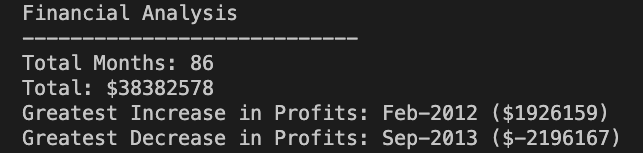
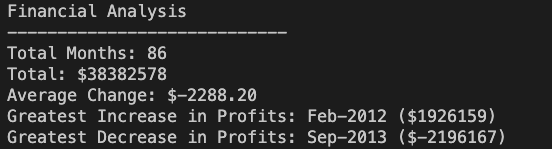
average change added to console.log. README image updated

Changed region(s): [[0.0, 0.2953, 0.9855, 0.9933], [0.0, 0.1879, 0.5543, 0.2685], [0.0, 0.0268, 0.3696, 0.1611]]

diff --git a/main.js b/main.js
@@ -34,6 +34,8 @@ for (var i = 0; i < inputData.length-1; i++) {
 }
 avgMonthlyChange = avgMonthlyChange / netMonthsInData
 
+avgMonthlyChange = avgMonthlyChange.toFixed(2)
+
 ///////////////////////////////////////////////////////////////
 
 // Greatest increase in profits & greatest decrease in profits
@@ -61,6 +63,7 @@ console.log("Financial Analysis")
 console.log("----------------------------")
 console.log("Total Months: " + netMonthsInData)
 console.log("Total: " + "$" + netProfitOrLoss)
+console.log("Average Change: " + "$" + avgMonthlyChange)
 console.log("Greatest Increase in Profits: " + listOfMonths[maxIndex] + " " + "($" + TopIncreaseInProfit + ")" )
 console.log("Greatest Decrease in Profits: " + listOfMonths[minIndex] + " " + "($" + TopDecreaseInProfit + ")" )
 
